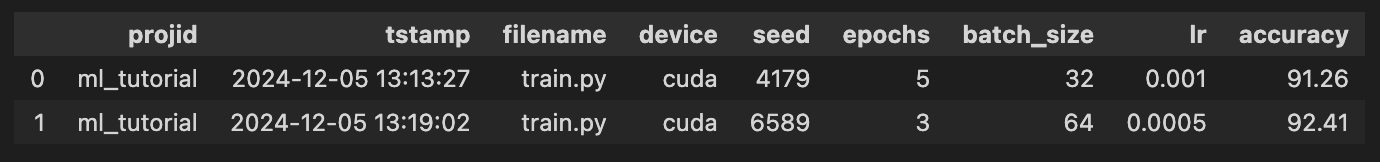
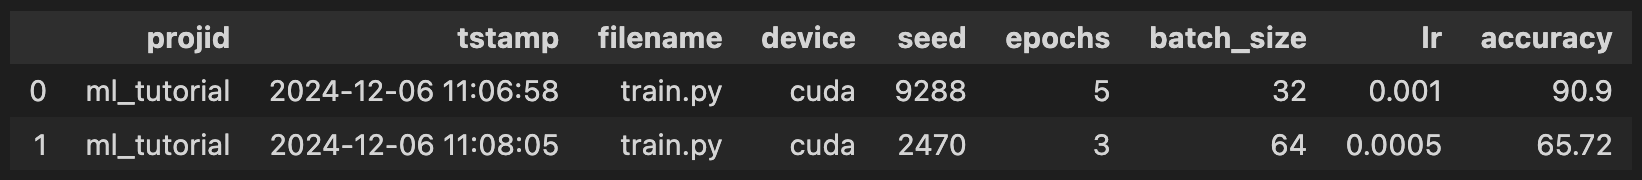
readme and other patches

diff --git a/flor/repl.py b/flor/repl.py
@@ -23,6 +23,8 @@ def dataframe(*args):
     # Query the distinct value_names
     try:
         df = database.pivot(conn, *(args if args else tuple()))
+        df.drop_duplicates(inplace=True)
+        df.reset_index(drop=True, inplace=True)
         return df
     finally:
         conn.close()
@@ -55,14 +57,21 @@ def replay(apply_vars: List[str], where_clause: Optional[str] = None):
     loglvl, mark = schedule.get_loglvl(lev)
     schedule.estimate_cost(loglvl, mark)
 
-    print("log level", loglvl, "to", mark)
+    level_mapper = {0: "prefix", 1: "outer loop", 2: "nested loop"}
+
+    print(
+        "log level",
+        level_mapper[loglvl],
+        "to suffix." if mark == "suffix" else "without suffix.",
+    )
     print()
     print(schedule.df)
     print()
 
     res = input(
-        f"Continue replay estimated to finish in {utils.discretize(sum(schedule.df['composite']))} [Y/n]? "
+        f"Continue replay estimated to finish in {utils.discretize(sum(schedule.df['composite']))} [y/N]? "
     )
+    res = res if res else "n"
     if res.lower().strip() == "n":
         return schedule
 
@@ -91,13 +100,37 @@ def replay(apply_vars: List[str], where_clause: Optional[str] = None):
                 print(*cmd)
                 subprocess.run(cmd)
             elif loglvl == 1:
-                tup = ",".join([i for i in range(schedule.df["num_epochs"])]) + ","  # type: ignore
+                tup = (
+                    ",".join(
+                        [
+                            str(i)
+                            for i in range(
+                                schedule.df[schedule.df["tstamp"] == ts][
+                                    "num_epochs"
+                                ].values[0]
+                            )
+                        ]
+                    )
+                    + ","
+                )
                 print("loglvl", loglvl, tup)
                 cmd = ["python", main_script, "--replay_flor"] + ["epoch=" + tup]
                 print(*cmd)
                 subprocess.run(cmd)
             elif loglvl == 2:
-                tup = ",".join([i for i in range(schedule.df["num_epochs"])]) + ","  # type: ignore
+                tup = (
+                    ",".join(
+                        [
+                            str(i)
+                            for i in range(
+                                schedule.df[schedule.df["tstamp"] == ts][
+                                    "num_epochs"
+                                ].values[0]
+                            )
+                        ]
+                    )
+                    + ","
+                )
                 print("loglvl", loglvl, tup)
                 cmd = ["python", main_script, "--replay_flor"] + [
                     "epoch=" + tup,

diff --git a/flor/cli.py b/flor/cli.py
@@ -23,9 +23,9 @@ flags = Flags({}, None, None, None, None)
 def parse_replay_flor(arg):
     parts = arg.split()
     return {
-        p.split("=")[0]: eval(p.split("=")[1])
-        if "::" not in p
-        else str(p.split("=")[1])
+        p.split("=")[0]: (
+            eval(p.split("=")[1]) if "::" not in p else str(p.split("=")[1])
+        )
         for p in parts
     }
 
@@ -86,7 +86,6 @@ def parse_args():
         help="List of logged variables, comma-separated",
     )
 
-
     flor_commands = [
         "--kwargs",
         "--replay_flor",
@@ -94,7 +93,7 @@ def parse_args():
         "replay",
         "query",
         "dataframe",
-        "stat"
+        "stat",
     ]
 
     # Check if any of the flor_commands is in the arguments
@@ -136,7 +135,7 @@ def replay_initialize():
     with open(".flor.json", "r") as f:
         data = json.load(f)
     for obj in data:
-        if obj["loop"] is None and obj["type"] == 1:
+        if obj["ctx"] is None and obj["type"] == 1:
             d = {obj["name"]: obj["value"]}
             flags.hyperparameters.update(d)
     flags.old_tstamp = data[0]["tstamp"]

diff --git a/flor/utils.py b/flor/utils.py
@@ -86,11 +86,23 @@ def is_integer(string):
 
 
 def cast_dtypes(df: pd.DataFrame, columns=None):
-    for col in columns if columns is not None else df.columns:
+    target_columns = columns if columns is not None else df.columns
+    for col in target_columns:
         if df[col].dtype == "object":
-            df[col] = pd.to_numeric(df[col], errors="ignore")
-        if df[col].dtype == "object":
-            df[col] = pd.to_datetime(df[col], errors="ignore")
+            # Attempt to convert to numeric first
+            try:
+                df[col] = pd.to_numeric(df[col], errors="raise")
+            except ValueError:
+                # If it fails, try coerce (turns non-numeric into NaN)
+                pass
+
+            # After numeric attempt, if still object, try datetime
+            if df[col].dtype == "object":
+                try:
+                    df[col] = pd.to_datetime(df[col], errors="raise")
+                except ValueError:
+                    # If datetime also fails, revert to no conversion or coerce
+                    pass
     return df
 
 

diff --git a/flor/versions.py b/flor/versions.py
@@ -29,9 +29,9 @@ def git_commit(message="FLOR::Auto-commit"):
 
             # Commit the changes
             repo.git.commit(m=message)
-            print("Changes committed successfully")
+            print("Changes committed successfully.")
         else:
-            print("No changes to commit")
+            print("No changes to commit.")
     except InvalidGitRepositoryError:
         print("Not a valid Git repository")
     except Exception as e:

diff --git a/README.md b/README.md
@@ -3,7 +3,7 @@ FlorDB
 [![PyPI](https://img.shields.io/pypi/v/flordb.svg?nocache=1)](https://pypi.org/project/flordb/)
 
 
-FlorDB is a hindsight logging database for the AI/ML lifecycle. It works in tandem with any workflow management solution for Python, such as `Make`, `Airflow`, `MLFlow`, `Docker`, `Slurm`, and `Jupyter`, to manage model developers' logs, execution data, versions of code (via `git`), and `torch` checkpoints. In addition to serving as a nimble experiment management solution for ML Engineers, FlorDB subsumes functionality from bespoke ML systems, operating as a **model registry**, **feature store**, **labeling solution**, and others, as needed.
+FlorDB is a hindsight logging database for the AI/ML lifecycle. It works in tandem with any workflow management solution for Python, such as Make, Airflow, MLFlow, Docker, Slurm, and Jupyter, to manage model developers' logs, execution data, versions of code (via `git`), and `torch` checkpoints. In addition to serving as a nimble experiment management solution for ML Engineers, FlorDB subsumes functionality from bespoke ML systems, operating as a **model registry**, **feature store**, **labeling solution**, and others, as needed.
 
 FlorDB contains a record-replay sub-system to enable hindsight logging: a post-hoc analysis practice that involves adding logging statements *after* encountering a surprise, and efficiently re-training with more logging as needed. When model weights are updated during training, Flor takes low-overhead checkpoints, and uses those checkpoints for replay speedups based on memoization, program slicing, and parallelism. As we will soon discuss, most FlorDB use-cases (e.g. data prep, featurization) do not involve `torch` checkpointing and can use the Flor data model independently of the record-replay sub-system.
 
@@ -153,21 +153,21 @@ python train.py
 ```bash
 Created and switched to new branch: flor.shadow
 device: cuda
-seed: 4179
+seed: 9288
 hidden: 500
 epochs: 5
 batch_size: 32
 lr: 0.001
 print_every: 500
-epoch: 0, step: 500, loss: 1.2232707738876343
-epoch: 0, step: 1000, loss: 0.9084039926528931
+epoch: 0, step: 500, loss: 0.5111837387084961
+epoch: 0, step: 1000, loss: 0.33876052498817444
 ...
-epoch: 4, step: 1500, loss: 0.4354817569255829
-epoch: 4, val_acc: 91.3   
-5it [00:23,  4.69s/it]    
-accuracy: 91.26
-correct: 9126
-Changes committed successfully
+epoch: 4, step: 1500, loss: 0.5777633786201477
+epoch: 4, val_acc: 90.95  
+5it [00:23,  4.68s/it]    
+accuracy: 90.9
+correct: 9090
+Changes committed successfully.
 ```
 Notice that the `train.py` script logs the loss and accuracy during training. The loss is logged for each step, and the accuracy is logged at the end of each epoch.
 
@@ -178,22 +178,22 @@ python train.py --kwargs epochs=3 batch_size=64 lr=0.0005
 ```
 ```bash
 device: cuda
-seed: 6589
+seed: 2470
 hidden: 500
 epochs: 3
 batch_size: 64
 lr: 0.0005
 print_every: 500
-epoch: 0, step: 500, loss: 0.2713785469532013
-epoch: 0, val_acc: 92.35 
-epoch: 1, step: 500, loss: 0.2224295288324356
-epoch: 1, val_acc: 92.05 
-epoch: 2, step: 500, loss: 0.24274785816669464
-epoch: 2, val_acc: 91.75 
-3it [00:11,  4.00s/it]   
-accuracy: 92.41
-correct: 9241
-Changes committed successfully
+epoch: 0, step: 500, loss: 0.847846508026123
+epoch: 0, val_acc: 65.65 
+epoch: 1, step: 500, loss: 0.9502124786376953
+epoch: 1, val_acc: 65.05 
+epoch: 2, step: 500, loss: 0.834592342376709
+epoch: 2, val_acc: 66.65 
+3it [00:11,  3.98s/it]   
+accuracy: 65.72
+correct: 6572
+Changes committed successfully.
 ```
 
 Now, you have two runs recorded in FlorDB. You can view the hyper-parameters and metrics logged during training with the `flor.dataframe` function:
@@ -202,17 +202,77 @@ Now, you have two runs recorded in FlorDB. You can view the hyper-parameters and
 import flor
 flor.dataframe("device", "seed", "epochs", "batch_size", "lr", "accuracy")
 ```
-![dataframe of two runs](img/two_runs.png)
+![alt text](img/two_runs.png)
 
 ### Replay the previous runs
 
-Although we logged the learning rate at the beginning of training, we forgot to log the learning rate during training. We can replay the previous runs and log the learning rate for each epoch:
+Whenever something looks wrong during training, you can use FlorDB to replay the previous runs and log additional information, like the gradient norm. To log the gradient norm, you can add the following line to the training script:
 
-...
+```python
+flor.log("gradient_norm", 
+    torch.nn.utils.clip_grad_norm_(
+        model.parameters(), max_norm=float('inf')
+    ).item()
+)
+```
+
+We add the `flor.log` statement to the training script, inside the loop that iterates over the epochs:
+
+```python
+with flor.checkpointing(model=net, optimizer=optimizer):
+    for epoch in flor.loop("epoch", range(num_epochs)):
+        
+        # hindsight logging: gradient norm
+        flor.log("gradient_norm", 
+            torch.nn.utils.clip_grad_norm_(
+                model.parameters(), max_norm=float('inf')
+            ).item()
+        )
+
+        for data in flor.loop("step", trainloader):
+            inputs, labels = data
+            optimizer.zero_grad()
+            outputs = net(inputs)
+            loss = criterion(outputs, labels)
+            loss.backward()
+            optimizer.step()
+            flor.log("loss", loss.item())
+
+        # Evaluate the model on the test set
+        eval(net, testloader)
+```
+
+We call the Flor Replay function with the name of the (comma-separated) variable(s) we want to hindsight log. In this case, we want to hindsight log the gradient norm at the start of each epoch, so we pass the variable name `gradient_norm`. From the command line:
+
+```bash
+python -m flor replay gradient_norm
+```
+```
+Changes committed successfully.
+log level outer loop without suffix.
+
+        projid              tstamp  filename  ...        delta::prefix       delta::suffix composite
+0  ml_tutorial 2024-12-06 11:06:58  train.py  ...   0.4068293860000267  0.5810907259983651  6.632383
+1  ml_tutorial 2024-12-06 11:08:05  train.py  ...  0.35641806300009193  0.5474109189999581  4.340672
+
+[2 rows x 17 columns]
+
+Continue replay estimated to finish in under 2 minutes [y/N]? y
+```
+The replay command will print a schedule of past versions to be replayed, including timing data and intermediate metrics. Columns containing `::` are profiling columns that Flor uses to estimate the replay’s runtime, and the phrase "log level outer loop without suffix" tells you the replay strategy that Flor will pursue on each version, which in this case means skipping the nested loop and the stuff that comes after the main epoch loop.
+
+When you confirm the replay, Flor will replay the past versions shown in the schedule, and hindsight log the gradient norm for each epoch. You can view the new metrics logged during replay with the `flor.dataframe` function:
+
+```python
+import flor
+flor.dataframe("seed", "batch_size", "lr", "gradient_norm")
+```
+![alt text](img/gradient_norm.png)
 
 ## Publications
 
-To cite this work, please refer to the [Multiversion Hindsight Logging](https://arxiv.org/abs/2310.07898) paper (pre-print '23).
+To cite this work, please refer to [Flow with FlorDB: Incremental Context Maintenance for the Machine Learning Lifecycle ](https://arxiv.org/pdf/2408.02498). Published in the 15th Annual Conference
+on Innovative Data Systems Research (CIDR ’25). January 19-22, Amsterdam.
 
 FlorDB is open source software developed at UC Berkeley. 
 [Joe Hellerstein](https://dsf.berkeley.edu/jmh/) (databases), [Joey Gonzalez](http://people.eecs.berkeley.edu/~jegonzal/) (machine learning), and [Koushik Sen](https://people.eecs.berkeley.edu/~ksen) (programming languages) 
@@ -221,10 +281,9 @@ are the primary faculty members leading this work.
 This work is released as part of [Rolando Garcia](https://rlnsanz.github.io/)'s [doctoral dissertation](https://www2.eecs.berkeley.edu/Pubs/TechRpts/2024/EECS-2024-142.html) at UC Berkeley,
 and has been the subject of study by Eric Liu and Anusha Dandamudi, 
 both of whom completed their master's theses on FLOR.
-Our list of publications are reproduced below.
-Finally, we thank [Vikram Sreekanti](https://www.vikrams.io/), [Dan Crankshaw](https://dancrankshaw.com/), and [Neeraja Yadwadkar](https://cs.stanford.edu/~neeraja/) for guidance, comments, and advice.
-[Bobby Yan](https://bobbyy.org/) was instrumental in the development of FLOR and its corresponding experimental evaluation.
+Our list of publications are reproduced below:
 
+* [Flow with FlorDB: Incremental Context Maintenance for the Machine Learning Lifecycle](https://arxiv.org/pdf/2408.02498). _R Garcia, P Kallanagoudar, C Anand, SE Chasins, JM Hellerstein, EMT Kerrison, AG Parameswaran_. CIDR, 2025.
 * [The Management of Context in the Machine Learning Lifecycle](https://www2.eecs.berkeley.edu/Pubs/TechRpts/2024/EECS-2024-142.html). _R Garcia_. EECS Department, University of California, Berkeley, 2024. UCB/EECS-2024-142.
 * [Multiversion Hindsight Logging for Continuous Training](https://arxiv.org/abs/2310.07898). _R Garcia, A Dandamudi, G Matute, L Wan, JE Gonzalez, JM Hellerstein, K Sen_. pre-print on ArXiv, 2023.
 * [Hindsight Logging for Model Training](http://www.vldb.org/pvldb/vol14/p682-garcia.pdf). _R Garcia, E Liu, V Sreekanti, B Yan, A Dandamudi, JE Gonzalez, JM Hellerstein, K Sen_. The VLDB Journal, 2021.
